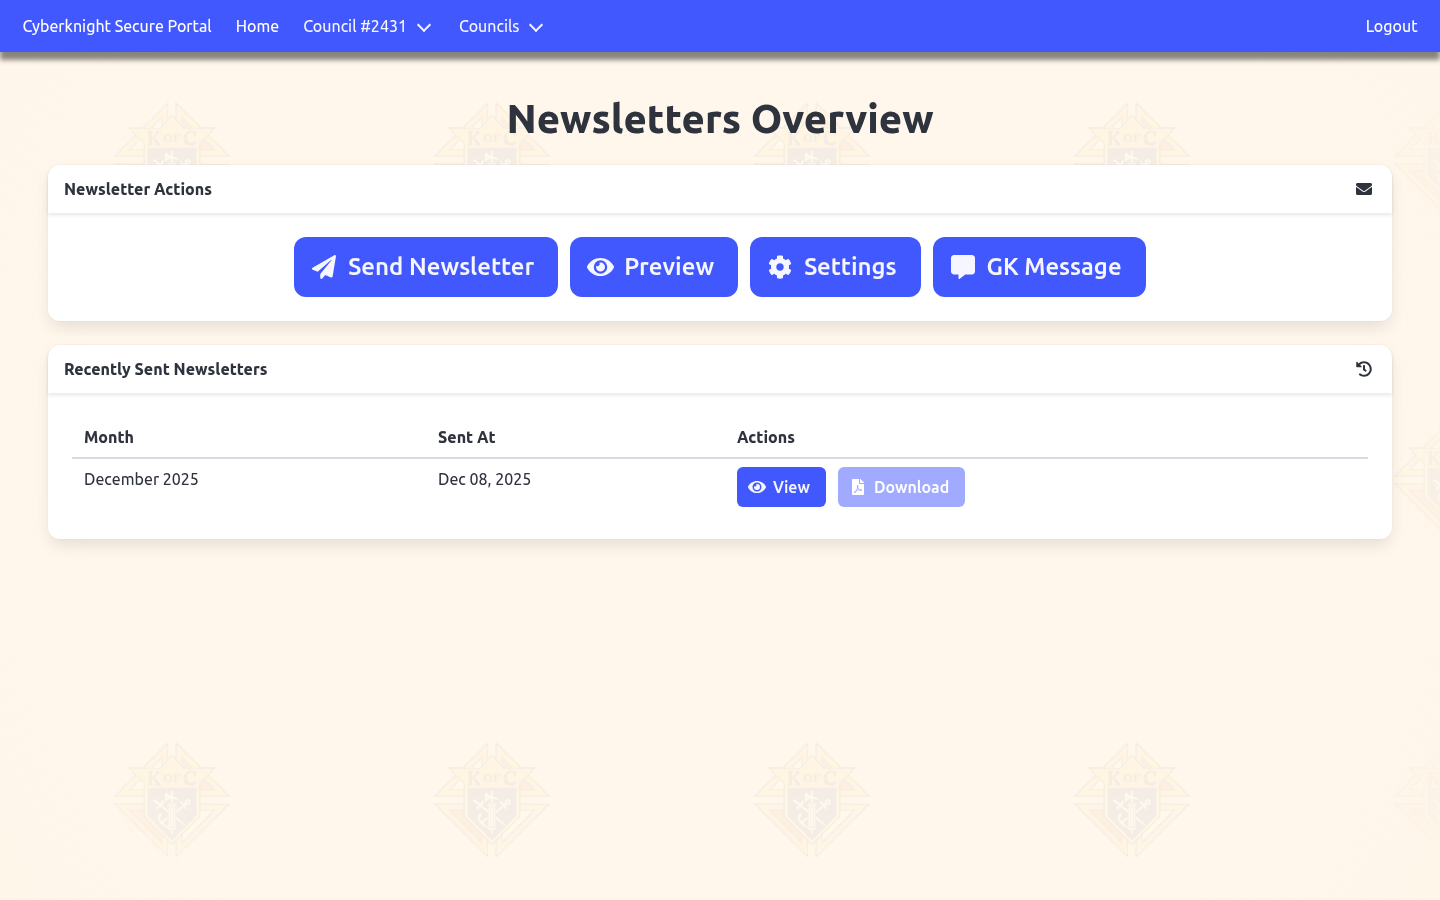
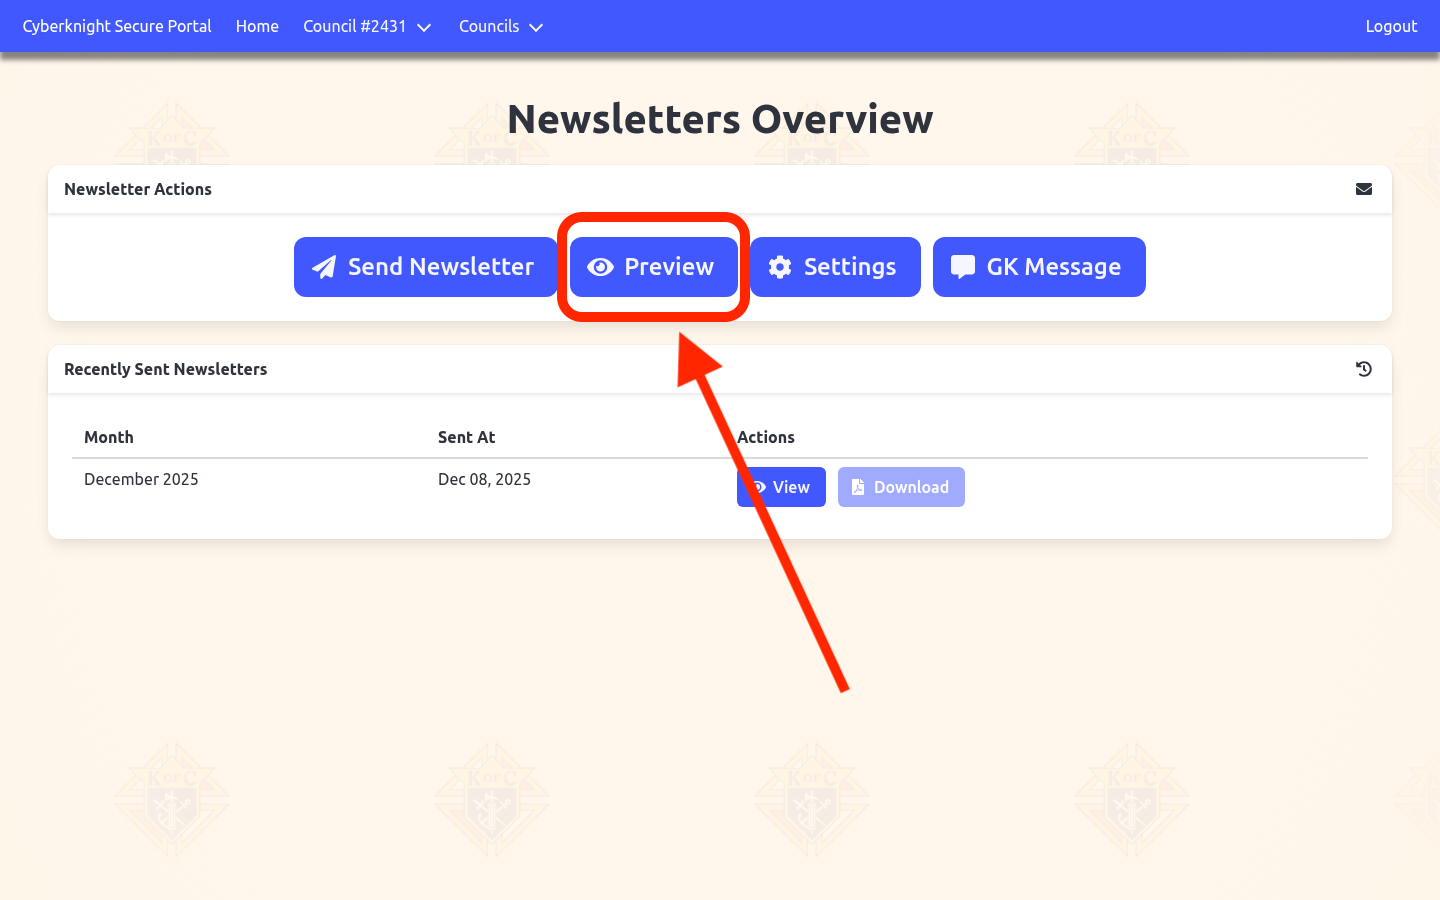
docs: sync documentation from secure webapp

Changed region(s): [[0.375, 0.2178, 0.5312, 0.4667], [0.5, 0.4667, 0.5625, 0.6844], [0.5625, 0.6844, 0.5938, 0.7778]]

diff --git a/_documentation/previewing-newsletters.md b/_documentation/previewing-newsletters.md
@@ -41,10 +41,3 @@ The newsletter preview displays:
 - **Latest Posts** - Recent blog or news posts from your council
 - **Columbia Magazine** - The current month's issue of the official Knights of Columbus magazine
 
-## Tips
-
-- **Check all events** - Verify that upcoming meetings and events are listed with correct dates and times
-- **Review formatting** - Make sure all text, images, and links display properly before sending
-- **Back to Overview** - Click the **Back to Overview** button at the bottom to return without sending
-- **Send when ready** - Once you've confirmed the preview looks good, use the **Send Newsletter** button from the overview page to deliver it
-- **View past newsletters** - From the Recently Sent Newsletters table, click **View** to preview previously sent newsletters for reference
